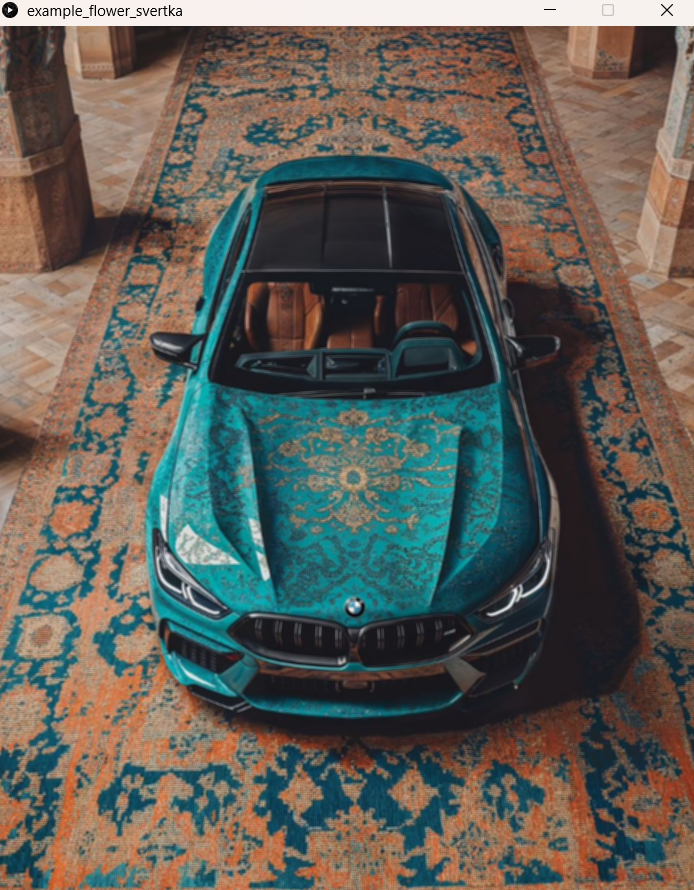
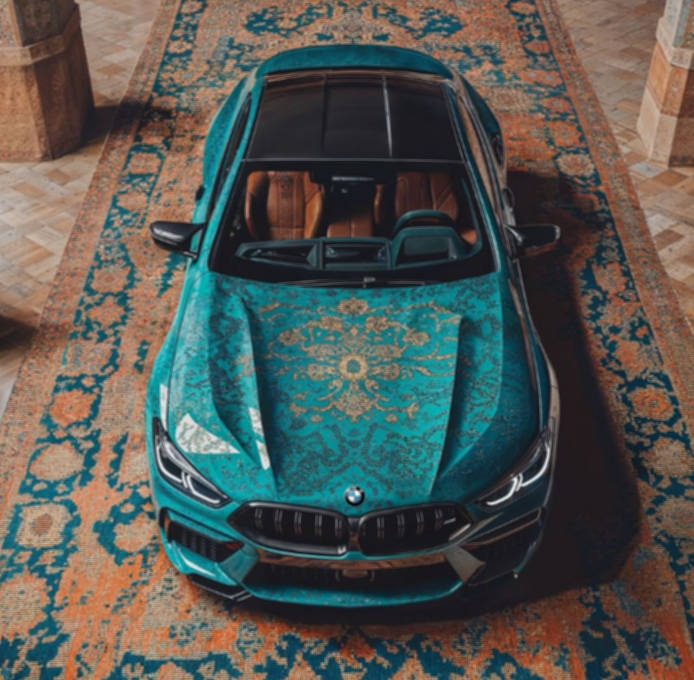
My first commit

diff --git a/Sokolova/style.css b/Sokolova/style.css
@@ -1,0 +1,85 @@
+body {
+  font-family: Arial, sans-serif;
+  margin: 0;
+  padding: 0;
+  background-color: #f9f9f9;
+}
+
+header {
+  background-color: #333;
+  padding: 10px;
+  display: flex;
+  justify-content: center;
+  flex-wrap: wrap;
+}
+
+header a {
+  color: white;
+  text-decoration: none;
+  margin: 5px 10px;
+  padding: 8px 12px;
+  background-color: #555;
+  border-radius: 5px;
+  transition: background-color 0.3s;
+}
+
+header a:hover {
+  background-color: #777;
+}
+
+.profile {
+  max-width: 800px;
+  margin: 40px auto;
+  background: white;
+  padding: 20px;
+  box-shadow: 0 0 10px rgba(0,0,0,0.1);
+  border-radius: 10px;
+  text-align: center;
+}
+
+.profile img {
+  width: 150px;
+  height: 150px;
+  object-fit: cover;
+  border-radius: 50%;
+  margin-bottom: 20px;
+}
+
+.profile h1 {
+  margin: 10px 0;
+  font-size: 28px;
+}
+
+.profile p {
+  color: #777;
+  line-height: 1.6;
+}
+
+.hobbies {
+  margin-top: 30px;
+}
+
+.hobbies h2 {
+  font-size: 24px;
+  margin-bottom: 15px;
+}
+
+.hobbies ul {
+  list-style: none;
+  padding: 0;
+}
+
+.hobbies ul li {
+  background-color: #f0f0f0;
+  margin: 5px auto;
+  padding: 10px;
+  max-width: 400px;
+  border-radius: 5px;
+}
+
+footer {
+  text-align: center;
+  margin: 40px 0;
+  color: #aaa;
+  font-size: 14px;
+}